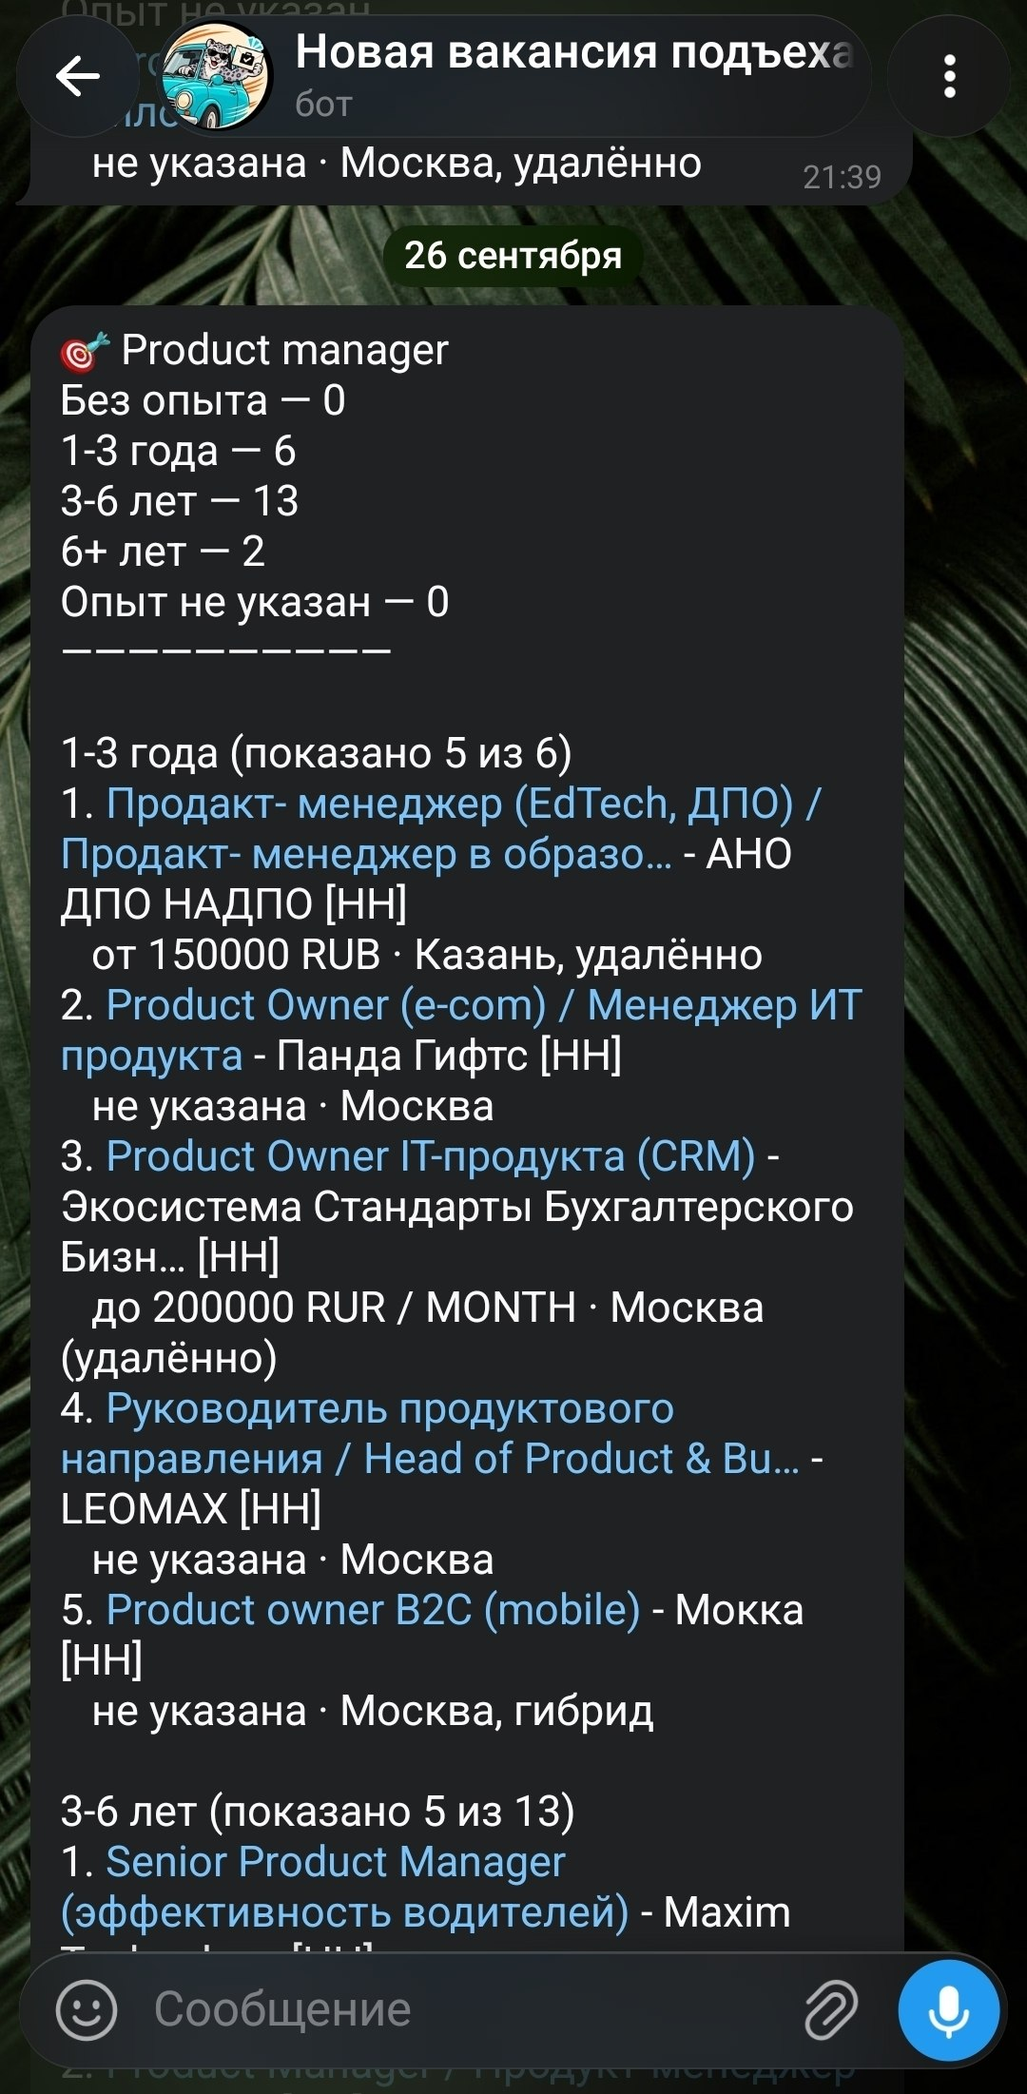
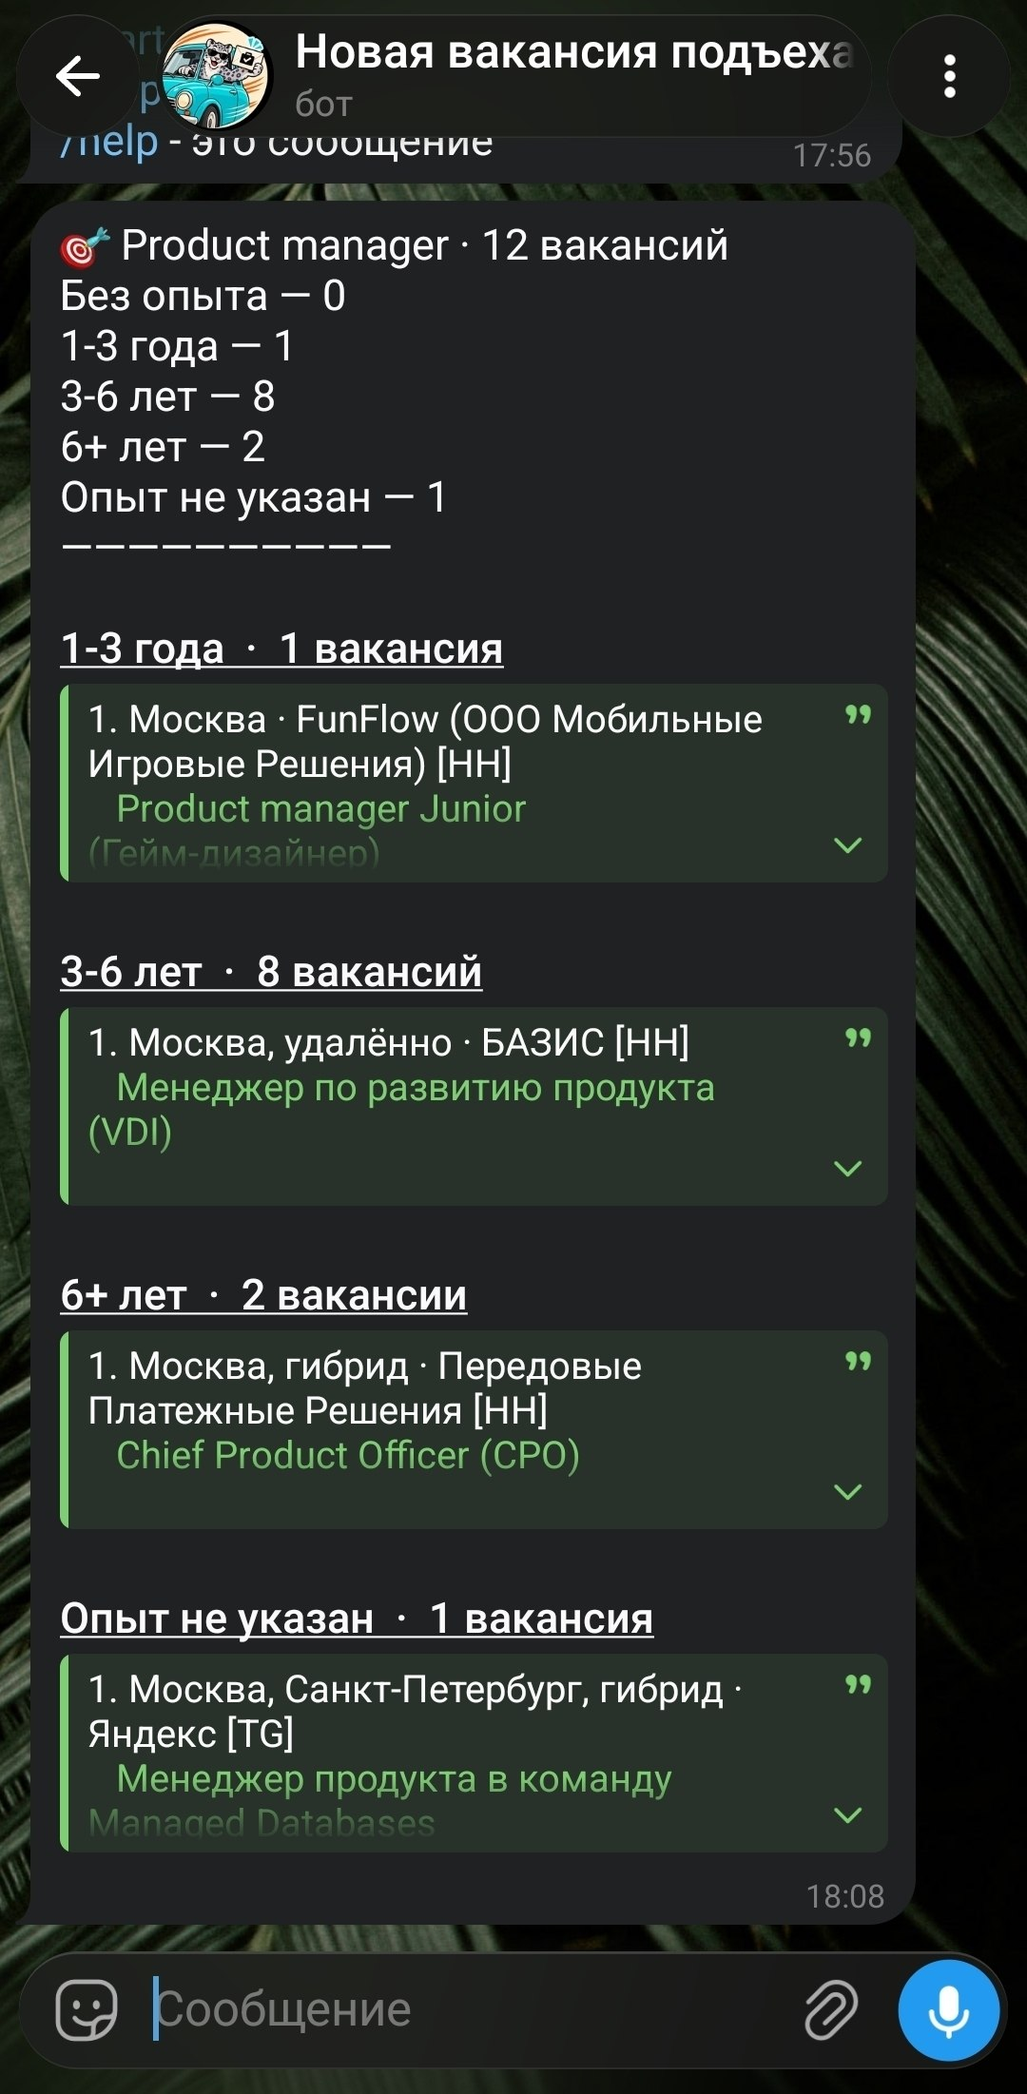
README: подборка одним сообщением, новые скрины, цифры на 02.10

diff --git a/README.md b/README.md
@@ -1,6 +1,6 @@
 # Новая вакансия подъехала
 
-**Телеграм-бот с вакансиями для продакт-менеджеров. Сам собирает их из 40 источников, отбирает нейросетью (LLM) и дважды в день присылает подписчикам лучшее - без дублей и мусора.**
+**Телеграм-бот с вакансиями для продакт-менеджеров. Сам собирает их из 40 источников, отбирает нейросетью (LLM) и пару раз в день присылает подписчикам одну подборку - без дублей и мусора.**
 
 Начиналось как личный скрипт: надоело вручную листать десятки каналов в поисках первой роли в продукте. Сейчас это работающий продукт с подписчиками, который живёт в облаке сам. Я вёл его как продакт: формулировал гипотезы, ставил задачи, принимал решения по данным. Код писал ИИ по моим ТЗ.
 
@@ -12,9 +12,9 @@
 |---|---|
 | Источники | hh.ru, Хабр Карьера, 38 телеграм-каналов, страницы вакансий по ссылкам из постов |
 | Объём за прогон | ~430 карточек Хабра, ~1900 постов телеграма, ~750 вакансий в выдаче hh.ru |
-| Оценка нейросетью | медиана 7,9 с на вакансию (было 25,7), 1-2 цента за прогон |
-| Подписчики | 19, отписок нет |
-| Качество кода | более 550 автотестов, проверка на каждый push, скан истории на секреты |
+| Оценка нейросетью | медиана ~11 с на вакансию (на старте было 25,7), 1-3 цента за прогон |
+| Подписчики | 19 |
+| Качество кода | около 730 автотестов (конвейер и бот), проверка на каждый push, скан истории на секреты |
 
 ## Как это работает
 
@@ -35,13 +35,14 @@
 Таблица ────────────── всё прошедшее, лучшее сверху
     │
     v
-Рассылка ───────────── блоки по опыту, без повторов и дублей из разных каналов;
+Рассылка ───────────── одно сообщение: шапка с числом вакансий по опыту,
+                       блоки сворачиваются; без повторов и дублей из разных каналов;
                        мне - сводка цифрами и тревоги только по делу
 ```
 
-Запускается по расписанию в GitHub Actions. Бот для подписки - отдельный serverless-сервис на Cloudflare Workers: просыпается только на входящее сообщение и укладывается в бесплатный лимит.
+Запускается по расписанию в GitHub Actions. Бот для подписки - отдельный serverless-сервис на Cloudflare Workers: просыпается только на входящее сообщение и укладывается в бесплатный лимит. Доступ - для подписчиков моего канала.
 
-<img src="docs/bot-digest.jpg" width="300" alt="Подборка по блокам опыта: без опыта, 1-3, 3-6, 6+, не указано; до пяти лучших в каждом непустом блоке">
+<img src="docs/bot-gate.jpg" width="240" alt="Карточка бота до подключения: что умеет, откуда вакансии, как часто приходит подборка, доступ через канал"> <img src="docs/bot-digest.jpg" width="300" alt="Подборка одним сообщением: шапка «Product manager · 12 вакансий» с разбивкой по опыту, ниже сворачиваемые блоки «1-3 года · 1 вакансия», «3-6 лет · 8 вакансий» и т.д.">
 
 ## Продуктовые решения
 
@@ -53,7 +54,9 @@
 | Опыт - строже из двух: поле работодателя и текст описания | Верить одному источнику | Ошибаются оба; заниженный опыт обманывает самых уязвимых - людей без опыта |
 | Возраст hh.ru - по дате создания | По дате публикации | «Поднятые» вакансии выглядели свежими: подписчикам уходили вакансии возрастом до 108 дней |
 | Очередь описаний: сначала начинающие и свежие | От старых к новым | Описаний на всех не хватает - пусть теряются старые и сеньорские |
-| Тип продукта - по тому, что развивает роль | По тому, что продаёт компания | Цифровая роль в ритейле - продуктовая; роль про товарную линейку - нет |
+| Тип продукта - по тому, что развивает роль | По тому, что продаёт компания | Цифровая роль в ритейле - продуктовая; ассортимент, карточки на маркетплейсе, турпакеты - нет, даже если продаются онлайн |
+| Подборка - одно сообщение, блоки свёрнуты | Пачка сообщений или открытые списки | Одно уведомление вместо пяти. Шапка видна в превью и сразу отвечает «есть ли сегодня что-то для моего уровня»; длинные списки не мешают тем, кому они не нужны |
+| Время рассылки «пару раз в день», без точных часов | Обещать «утром и вечером» | Расписание облака плавает на часы; честное ожидание лучше обещания, которое не держится |
 | Без adult и азартных игр | Любая продуктовая роль | Лента - лицо канала |
 | Дешёвая модель | Топовая | На тысячах постов разница в качестве не стоит цены: отсев держится на конвейере, а не на уме модели |
 | Сводка владельцу цифрами и без звука | Список вакансий | Шум приучает не замечать настоящие тревоги |
@@ -70,6 +73,8 @@
 - **Одна вакансия - дважды в подборке.** Сеть каналов репостит один пост. Добавил склейку по «компания + должность» между разными источниками - и не внутри одного, чтобы не склеить две разные вакансии Яндекса с одинаковым названием.
 - **Весь сбор hh.ru падал из-за 4 карточек из 650.** Выдача сдвигалась во время обхода страниц, строгая проверка полноты роняла шаг целиком. Сделал допуск в 1% с повторным проходом.
 - **Метрика, которая врала.** Независимый аудит нашёл: «Разослано» считало выбранные вакансии, даже когда рассылка не состоялась. Теперь отдельно: выбрано, доставлено, подтверждено.
+- **Отчёт, который пропадал только на маленьких прогонах.** Служебная сводка молча не дошла: в ней стояло «Оценка <1 мин», а Telegram прочитал «<1» как начало HTML-тега. Ошибка несколько дней жила в коде незамеченной: срабатывала, только когда оценка занимала меньше 30 секунд. Исправил и добавил запасной путь: если разметка не разобрана, сводка уходит простым текстом. Тесты теперь проверяют разметку всех сообщений бота.
+- **Товарные роли под видом цифровых.** Аудит подборки вручную нашёл «продактов» по ассортименту и турпакетам: нейросеть считала маркетплейс как канал продаж цифровым признаком. Переписал правило - цифровой продукт только там, где роль владеет функциональностью, которую делает команда разработки.
 
 ## Надёжность
 
@@ -78,16 +83,17 @@
 - **Сбор под наблюдением.** Резкое падение объёма по источнику или каналу - тревога; сравнение идёт со средним за прошлые прогоны.
 - **Сторож пропущенных запусков.** Если плановый прогон не случился, приходит сообщение.
 - **Проверка приёма сообщений ботом.** Однажды бот тихо перестал получать /start - теперь это ловится автоматически.
+- **Бот устойчив к спаму и сбоям.** Защита от флуда не тратит лимит хранилища на каждое сообщение; /stop срабатывает всегда, даже во время паузы; ответ бота повторяется при сбое сети.
 - **Частичные сбои без потерь.** Временная ошибка источника или сети не превращает вакансию в окончательный отказ - она повторяется в следующем прогоне.
-- **Независимый аудит.** Второй ИИ проверил весь конвейер; находки я сверил с кодом и данными, подтверждённые исправлены.
+- **Независимый аудит.** Второй ИИ трижды проверил весь конвейер; находки я сверил с кодом и данными, подтверждённые исправлены.
 
-<img src="docs/bot-alerts.jpg" width="300" alt="Служебный канал: сводки прогонов цифрами и недельная сводка">
+<img src="docs/bot-alerts.jpg" width="300" alt="Служебный канал: сводка прогона - новые вакансии по источникам, что ушло подписчикам по опыту, время оценки, ошибки, баланс">
 
 ## Безопасность
 
 - Секреты только в защищённых хранилищах, в коде - одни названия. Каждый push проверяется на утечки, история репозитория сканируется целиком.
 - Текст вакансий и страниц считается недоверенным: защита от внедрения инструкций в нейросеть (prompt injection), загрузка страниц только по безопасным внешним адресам, с лимитами размера и времени.
-- ИИ, который пишет код, работает под техническим замком: не может прочитать файлы с ключами, запустить боевой прогон или ослабить собственные ограничения.
+- ИИ, который пишет код, работает под техническим замком: не может прочитать файлы с ключами, запустить боевой прогон или ослабить собственные ограничения. Код, который он запускает (скрипты и вставки на Python, Node, bash), проверяется до запуска; правки самого замка вносит только человек.
 - О подписчиках хранится минимум: идентификатор и статус подписки. В служебные сообщения идентификаторы не попадают.
 
 ## Как это делалось
